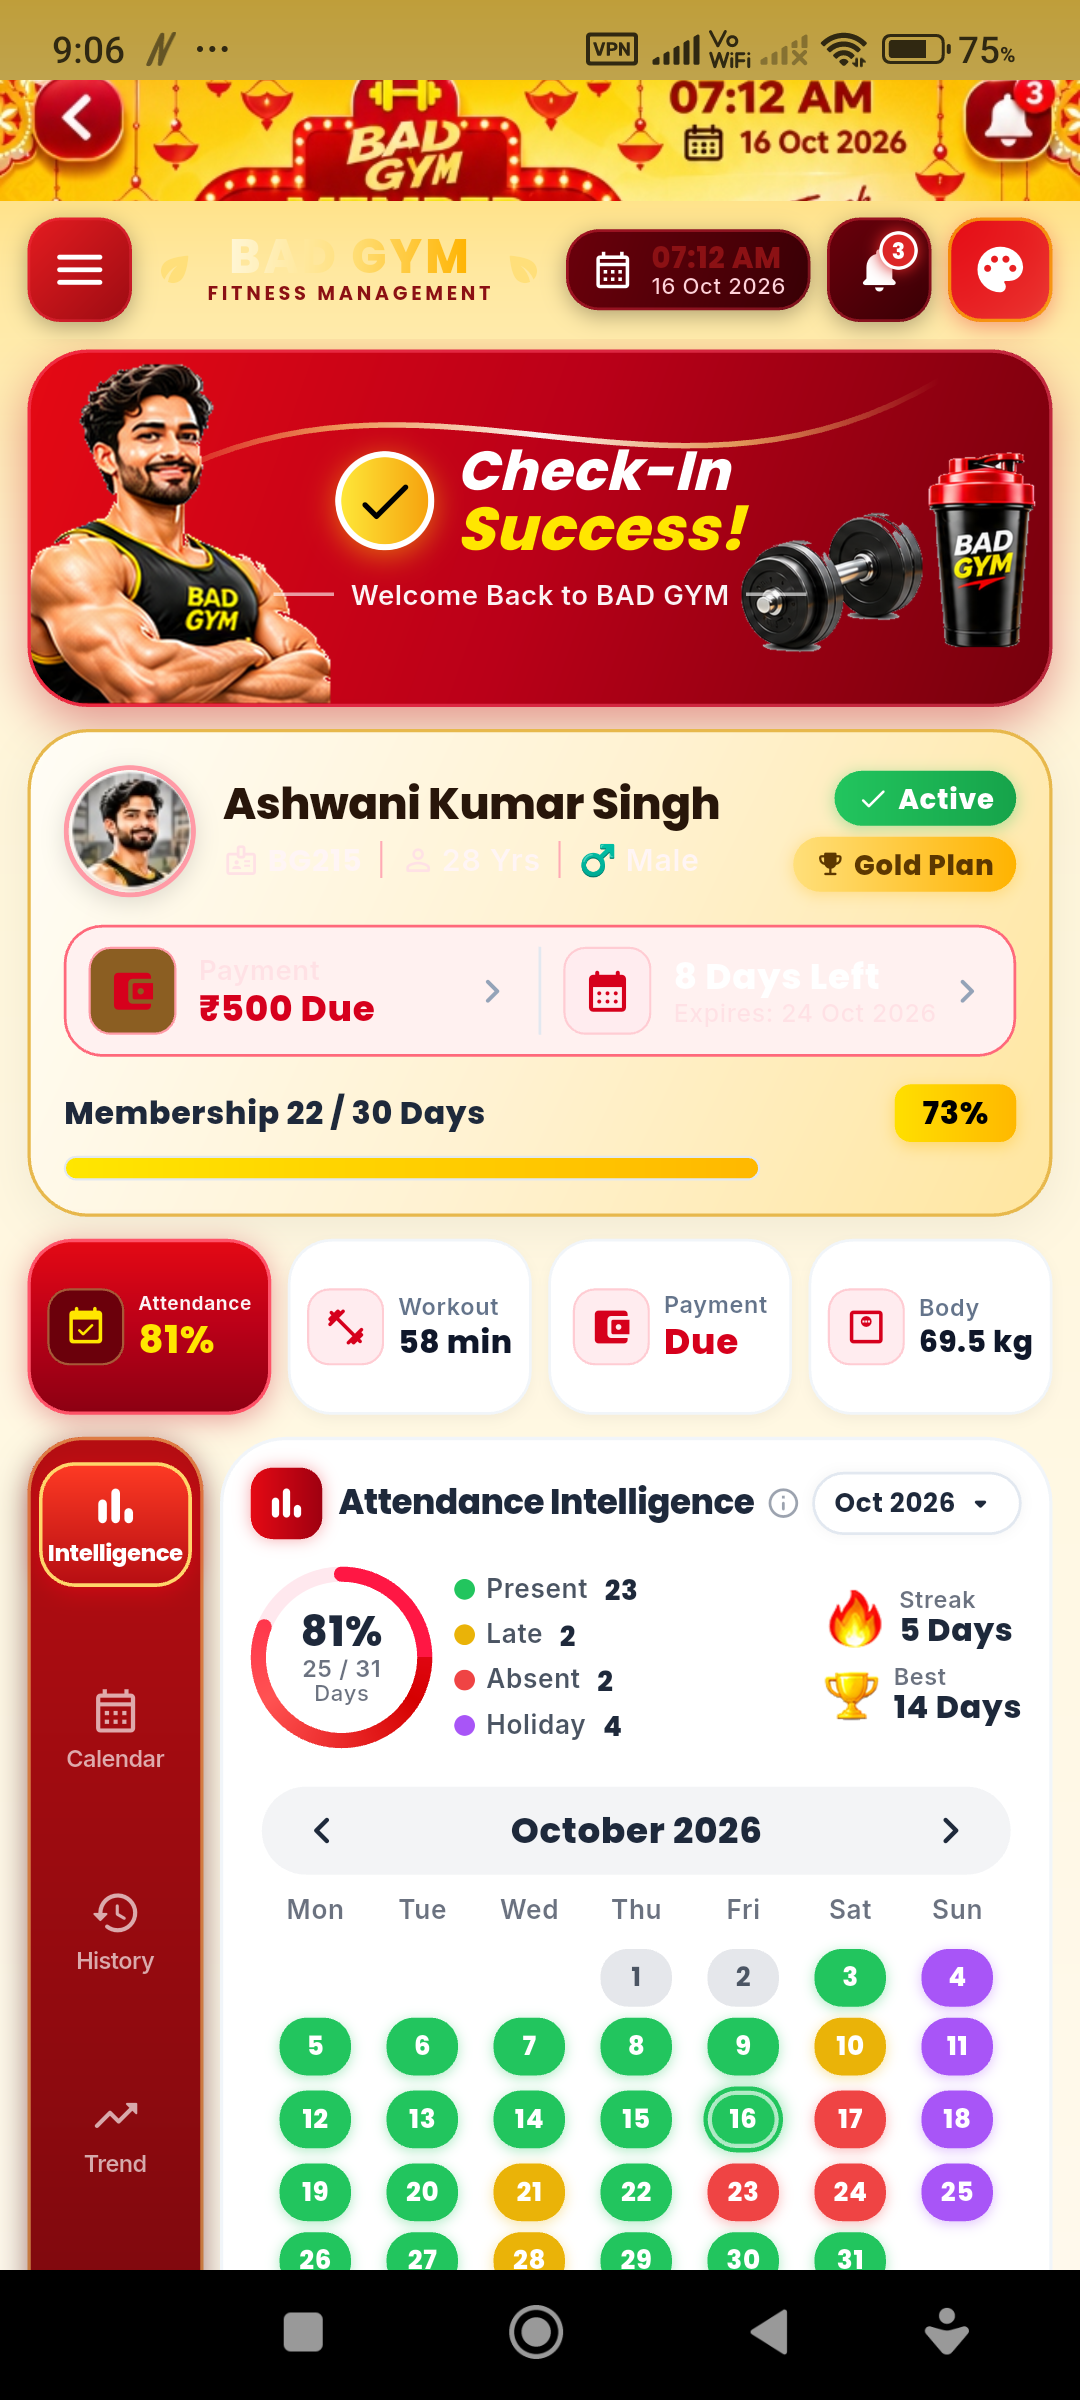
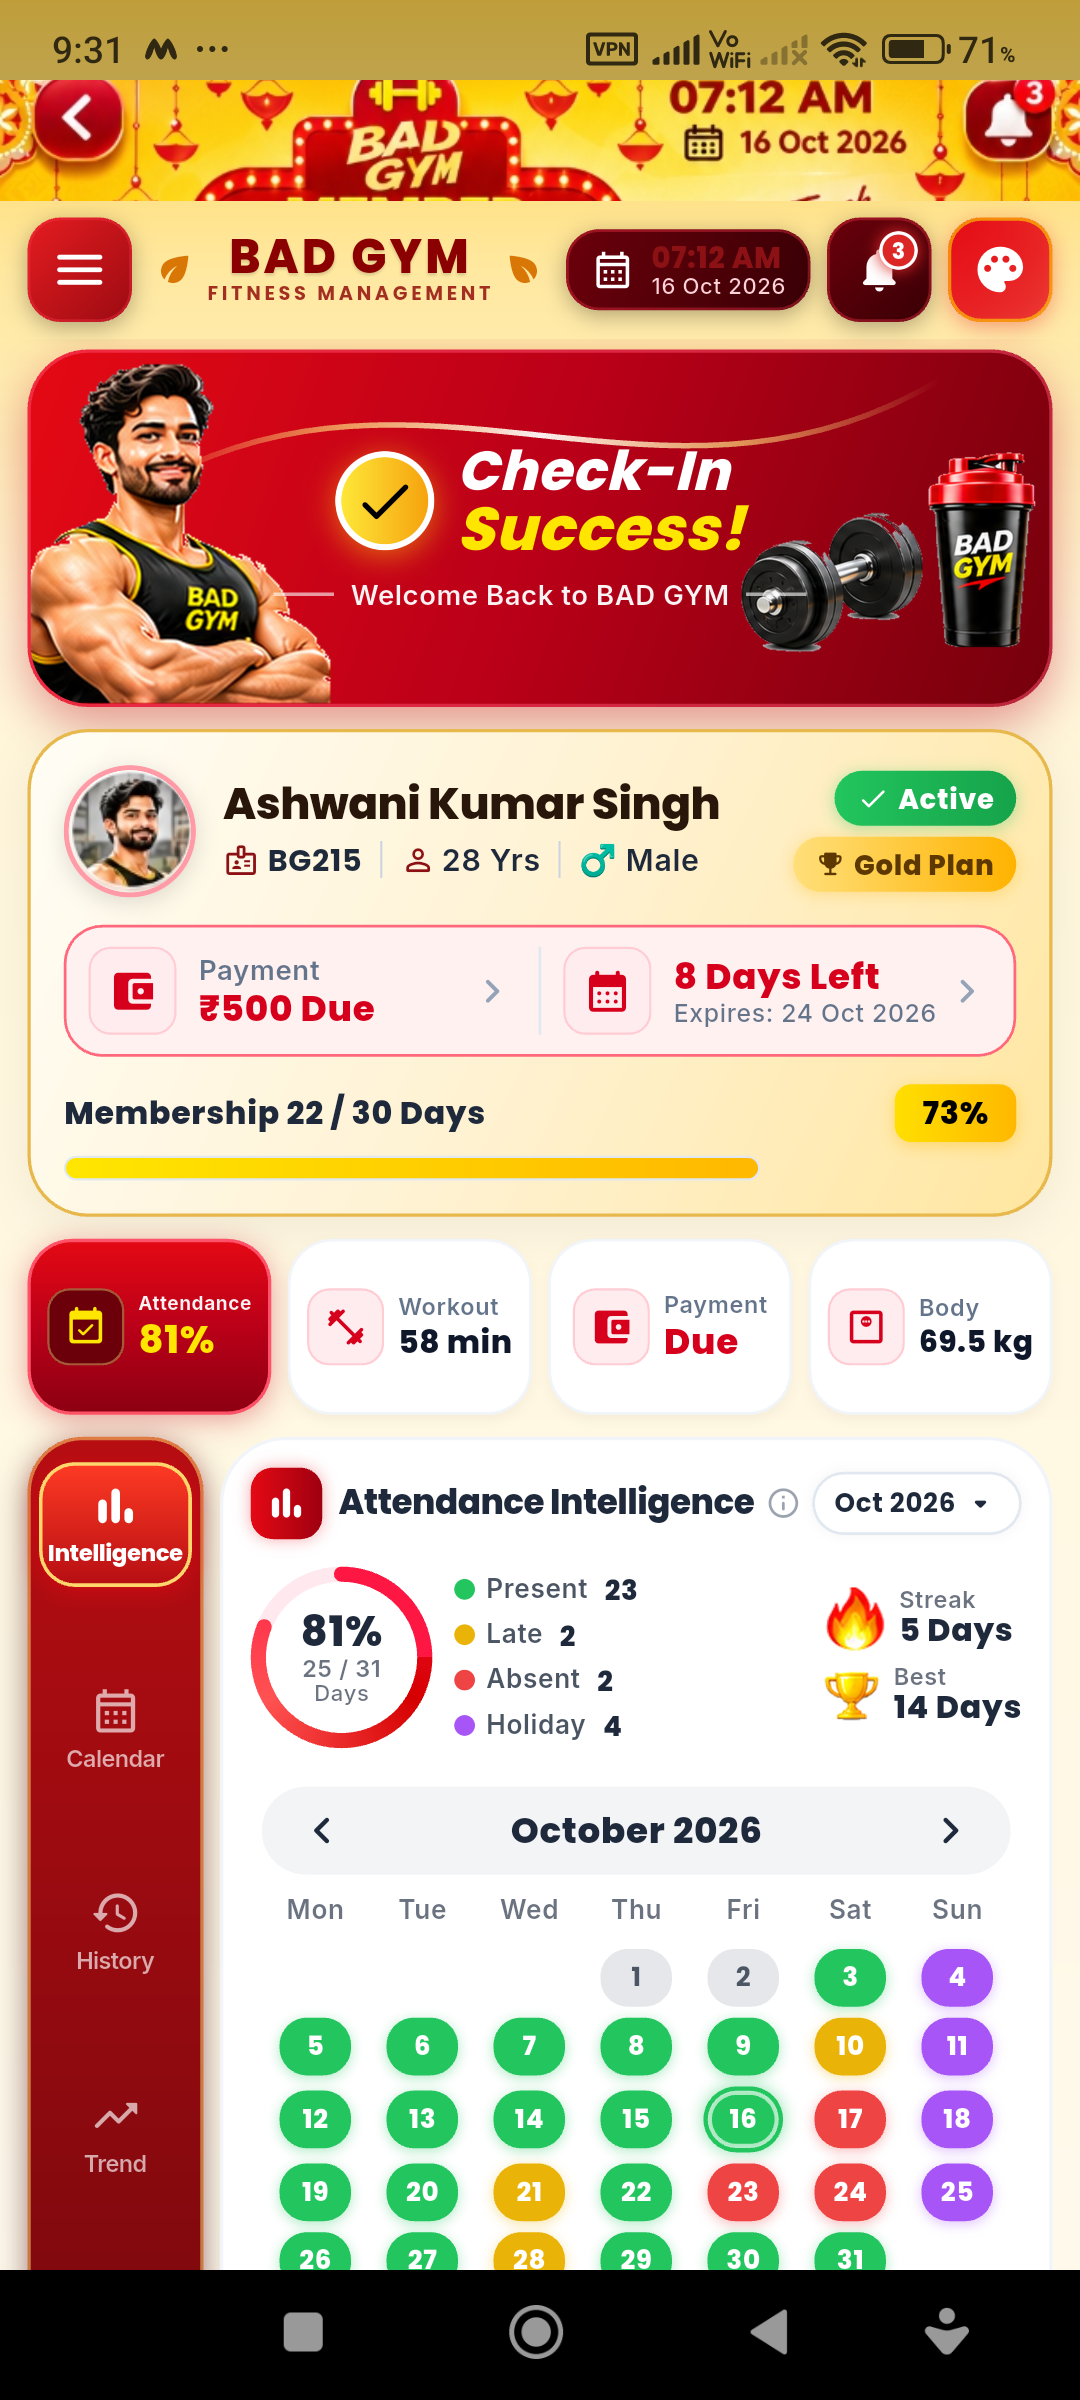
feat(themes): finalize high-contrast typography, top brand bar adaptive colors, and commit live multi-theme device screenshots

diff --git a/lib/presentation/widgets/member_profile_card.dart b/lib/presentation/widgets/member_profile_card.dart
@@ -110,7 +110,7 @@ class MemberProfileCard extends StatelessWidget {
                         fontFamily: BadGymTypography.fontHeading,
                         fontWeight: FontWeight.w900,
                         fontSize: 16,
-                        color: const Color(0xFF28160A),
+                        color: Color(0xFF28160A),
                         letterSpacing: -0.2,
                         height: 1.1,
                       ),
@@ -124,7 +124,7 @@ class MemberProfileCard extends StatelessWidget {
                           const Icon(
                             Icons.badge_outlined,
                             size: 13,
-                            color: Color(0xFFFFE1E5),
+                            color: Color(0xFF8B1114),
                           ),
                           const SizedBox(width: 3),
                           Text(
@@ -133,14 +133,14 @@ class MemberProfileCard extends StatelessWidget {
                               fontFamily: BadGymTypography.fontHeading,
                               fontWeight: FontWeight.w700,
                               fontSize: 11,
-                              color: Color(0xFFFFF5F5),
+                              color: Color(0xFF1E293B),
                             ),
                           ),
                           const SizedBox(width: 5),
                           const Text(
                             '|',
                             style: TextStyle(
-                              color: Color(0xFFFFAAB5),
+                              color: Color(0xFFCBD5E1),
                               fontSize: 11,
                             ),
                           ),
@@ -148,7 +148,7 @@ class MemberProfileCard extends StatelessWidget {
                           const Icon(
                             Icons.person_outline_rounded,
                             size: 13,
-                            color: Color(0xFFFFE1E5),
+                            color: Color(0xFF8B1114),
                           ),
                           const SizedBox(width: 2),
                           Text(
@@ -157,14 +157,14 @@ class MemberProfileCard extends StatelessWidget {
                               fontFamily: BadGymTypography.fontBody,
                               fontWeight: FontWeight.w600,
                               fontSize: 11,
-                              color: Color(0xFFFFF5F5),
+                              color: Color(0xFF1E293B),
                             ),
                           ),
                           const SizedBox(width: 5),
                           const Text(
                             '|',
                             style: TextStyle(
-                              color: Color(0xFFFFAAB5),
+                              color: Color(0xFFCBD5E1),
                               fontSize: 11,
                             ),
                           ),
@@ -175,7 +175,7 @@ class MemberProfileCard extends StatelessWidget {
                               fontFamily: BadGymTypography.fontBody,
                               fontWeight: FontWeight.w600,
                               fontSize: 11,
-                              color: Color(0xFFFFF5F5),
+                              color: Color(0xFF1E293B),
                             ),
                           ),
                         ],
@@ -307,10 +307,10 @@ class MemberProfileCard extends StatelessWidget {
                           width: 32,
                           height: 32,
                           decoration: BoxDecoration(
-                            color: const Color(0xFF8B5E22),
+                            color: const Color(0xFFFFECEF),
                             borderRadius: BorderRadius.circular(8),
                             border: Border.all(
-                              color: const Color(0xFFFF9AA6),
+                              color: const Color(0xFFFFCCD3),
                               width: 0.8,
                             ),
                           ),
@@ -334,7 +334,7 @@ class MemberProfileCard extends StatelessWidget {
                                   fontFamily: BadGymTypography.fontBody,
                                   fontWeight: FontWeight.w600,
                                   fontSize: 10,
-                                  color: Color(0xFFFFE1E5),
+                                  color: Color(0xFF64748B),
                                   height: 1.0,
                                 ),
                               ),
@@ -411,7 +411,7 @@ class MemberProfileCard extends StatelessWidget {
                                   fontFamily: BadGymTypography.fontHeading,
                                   fontWeight: FontWeight.w900,
                                   fontSize: 13,
-                                  color: Colors.white,
+                                  color: Color(0xFFD6001C),
                                   height: 1.1,
                                 ),
                               ),
@@ -422,7 +422,7 @@ class MemberProfileCard extends StatelessWidget {
                                   fontFamily: BadGymTypography.fontBody,
                                   fontWeight: FontWeight.w500,
                                   fontSize: 9,
-                                  color: Color(0xFFFFE1E5),
+                                  color: Color(0xFF64748B),
                                   height: 1.0,
                                 ),
                               ),

diff --git a/lib/presentation/widgets/top_brand_bar.dart b/lib/presentation/widgets/top_brand_bar.dart
@@ -22,6 +22,34 @@ class TopBrandBar extends StatelessWidget {
     this.themeVariant = DashboardThemeVariant.festiveGold,
   });
 
+  Color get _brandTitleColor {
+    switch (themeVariant) {
+      case DashboardThemeVariant.darkObsidianGold:
+        return const Color(0xFFFFD700);
+      case DashboardThemeVariant.emeraldNeon:
+        return const Color(0xFF00E676);
+      case DashboardThemeVariant.royalPurple:
+        return const Color(0xFF9333EA);
+      case DashboardThemeVariant.festiveGold:
+      case DashboardThemeVariant.crimsonWave:
+        return const Color(0xFF8B0000);
+    }
+  }
+
+  Color get _laurelLeafColor {
+    switch (themeVariant) {
+      case DashboardThemeVariant.darkObsidianGold:
+        return const Color(0xFFFFD700);
+      case DashboardThemeVariant.emeraldNeon:
+        return const Color(0xFF00E676);
+      case DashboardThemeVariant.royalPurple:
+        return const Color(0xFF9333EA);
+      case DashboardThemeVariant.festiveGold:
+      case DashboardThemeVariant.crimsonWave:
+        return const Color(0xFFD97706);
+    }
+  }
+
   @override
   Widget build(BuildContext context) {
     return Container(
@@ -82,45 +110,42 @@ class TopBrandBar extends StatelessWidget {
                 mainAxisSize: MainAxisSize.min,
                 children: [
                   // Left Laurel Leaf
-                  const Icon(
+                  Icon(
                     Icons.eco_rounded,
-                    color: Color(0xFFFFDF7A),
+                    color: _laurelLeafColor,
                     size: 16,
                   ),
                   const SizedBox(width: 4),
                   Column(
                     mainAxisSize: MainAxisSize.min,
                     children: [
-                      // BAD GYM in bold gold metallic styling
-                      ShaderMask(
-                        shaderCallback: (bounds) => const LinearGradient(
-                          colors: [
-                            Color(0xFFFFF6D6),
-                            Color(0xFFFFDF7A),
-                            Color(0xFFFFB300),
+                      Text(
+                        'BAD GYM',
+                        style: TextStyle(
+                          fontFamily: BadGymTypography.fontHeading,
+                          fontWeight: FontWeight.w900,
+                          fontSize: 18,
+                          letterSpacing: 1.2,
+                          color: _brandTitleColor,
+                          shadows: [
+                            Shadow(
+                              color: Colors.black.withValues(alpha: 0.15),
+                              offset: const Offset(0, 1),
+                              blurRadius: 2,
+                            ),
                           ],
-                        ).createShader(bounds),
-                        child: const Text(
-                          'BAD GYM',
-                          style: TextStyle(
-                            fontFamily: BadGymTypography.fontHeading,
-                            fontWeight: FontWeight.w900,
-                            fontSize: 18,
-                            letterSpacing: 1.2,
-                            color: Colors.white,
-                            height: 1.0,
-                          ),
+                          height: 1.0,
                         ),
                       ),
                       const SizedBox(height: 1.5),
-                      const Text(
+                      Text(
                         'FITNESS MANAGEMENT',
                         style: TextStyle(
                           fontFamily: BadGymTypography.fontHeading,
                           fontWeight: FontWeight.w700,
                           fontSize: 7.5,
                           letterSpacing: 1.4,
-                          color: Color(0xFF8B1114),
+                          color: _brandTitleColor.withValues(alpha: 0.8),
                           height: 1.0,
                         ),
                       ),
@@ -130,9 +155,9 @@ class TopBrandBar extends StatelessWidget {
                   // Right Laurel Leaf
                   Transform.flip(
                     flipX: true,
-                    child: const Icon(
+                    child: Icon(
                       Icons.eco_rounded,
-                      color: Color(0xFFFFDF7A),
+                      color: _laurelLeafColor,
                       size: 16,
                     ),
                   ),
